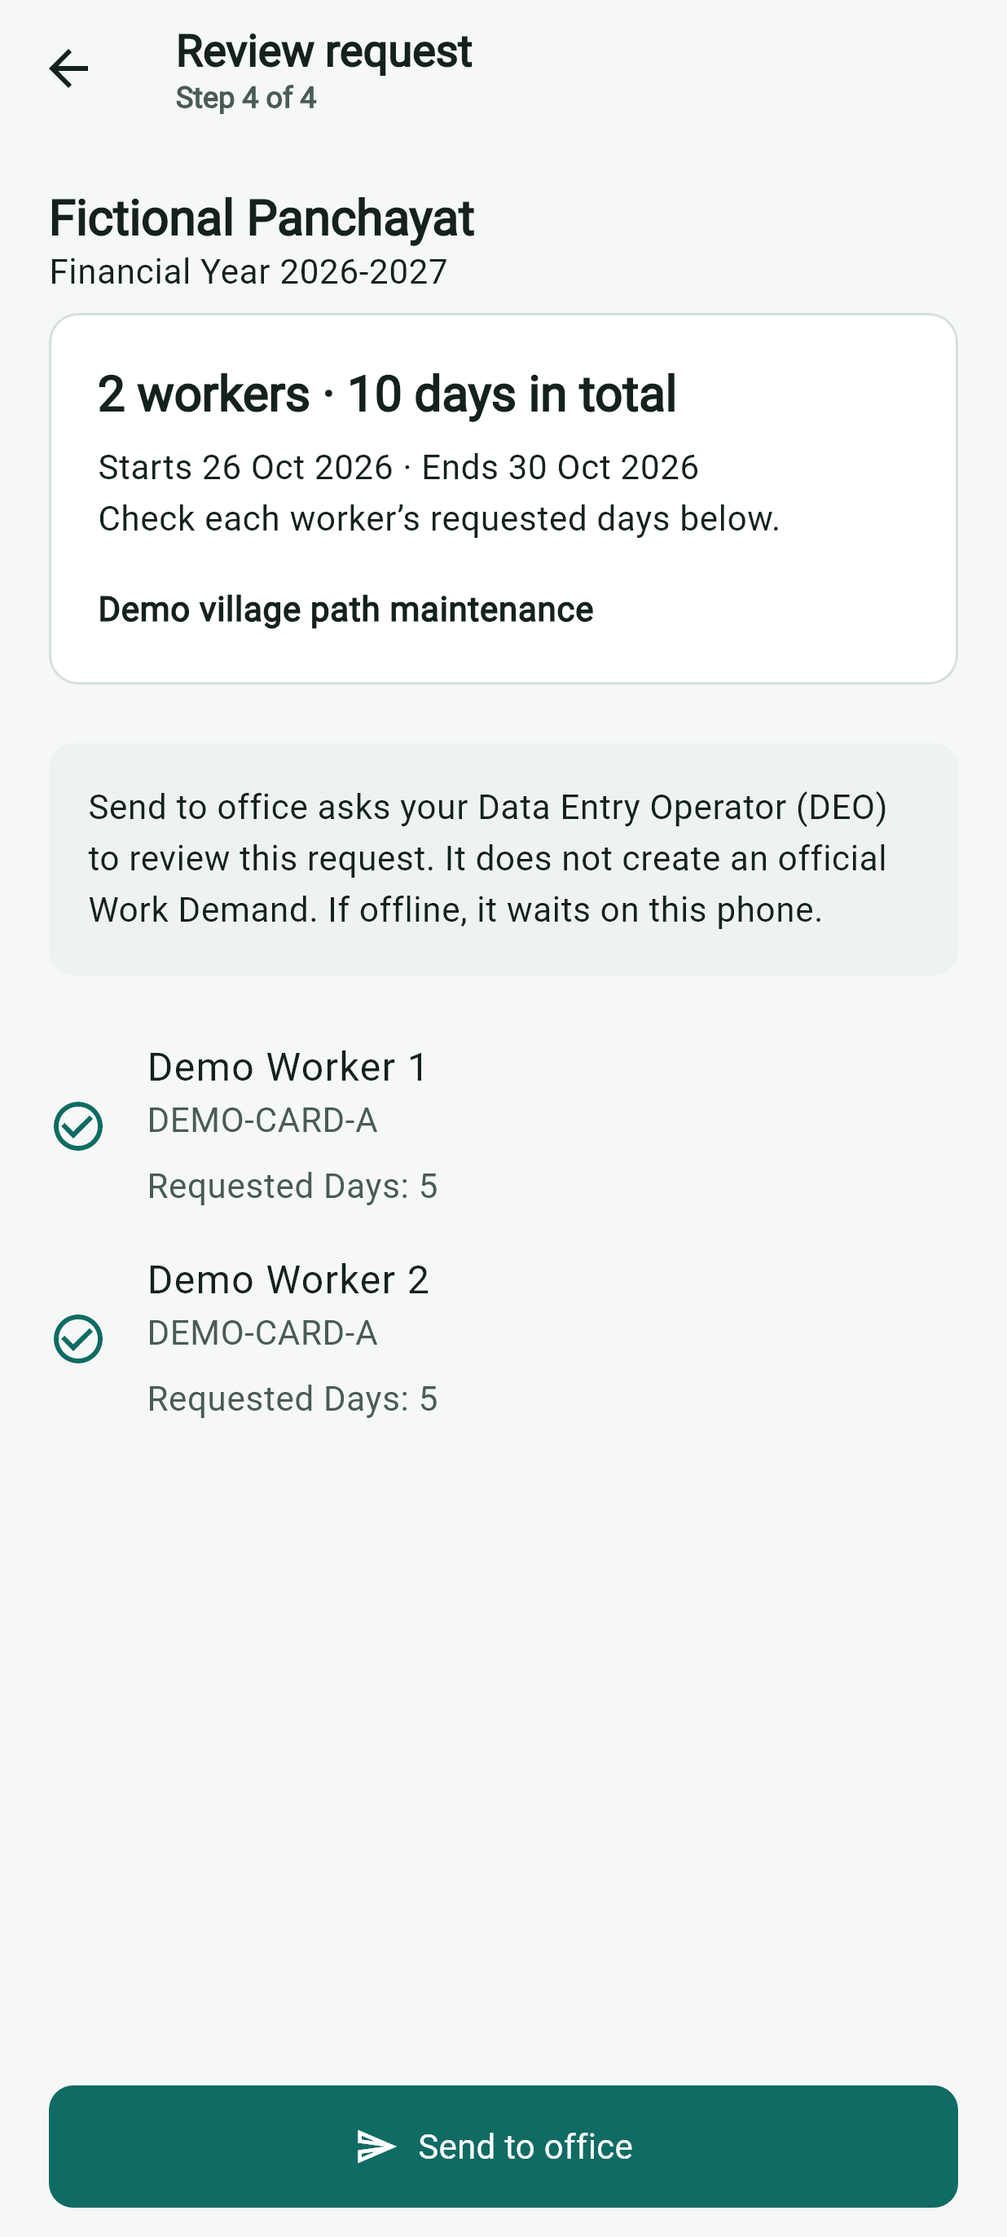
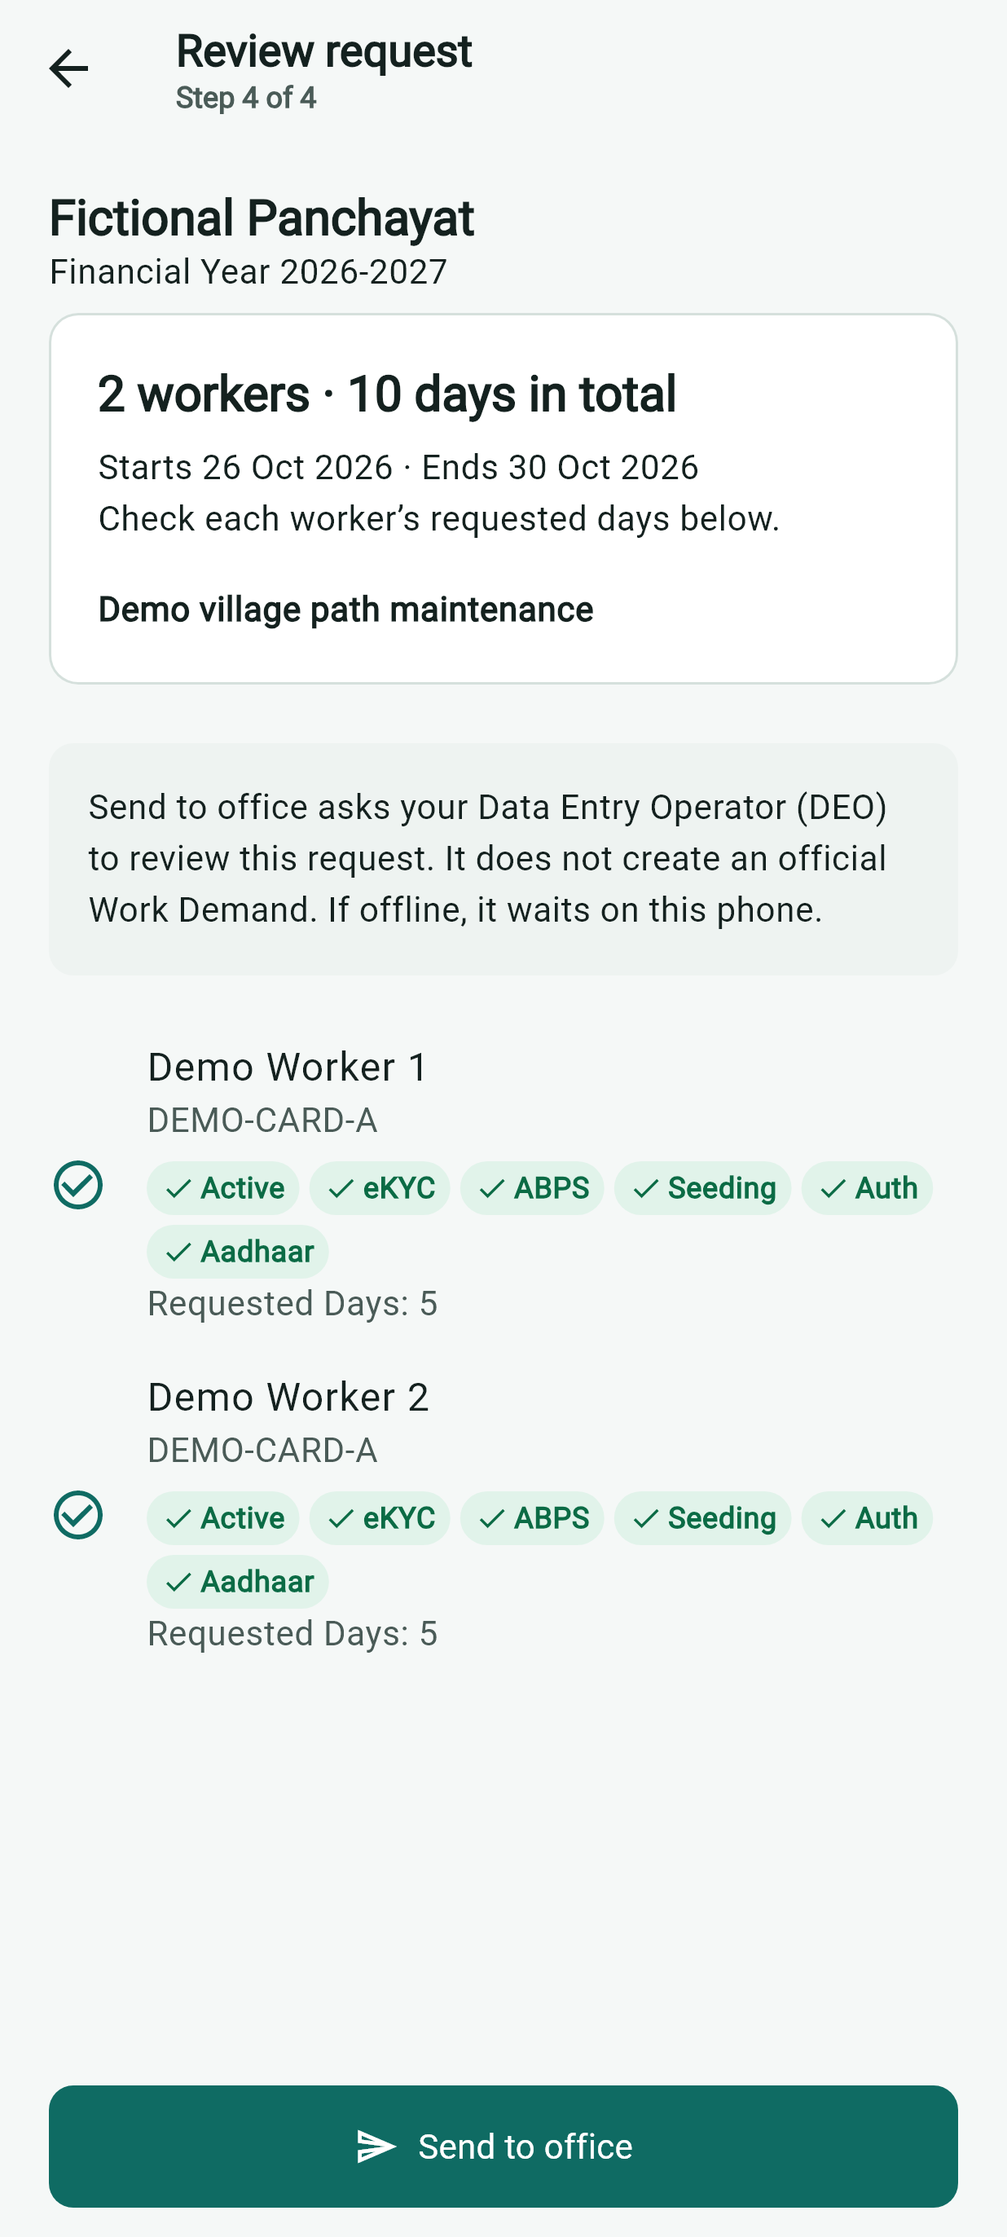
Refresh app showcase, 15 fictional previews and plain-English guides

diff --git a/README.md b/README.md
@@ -46,16 +46,16 @@ Progress reads family records together to avoid repeated lookups. Worker-check c
 
 ## Download
 
-Published downloads: desktop **1.4.47**, Android **1.4.32**.
+Published downloads: desktop **1.4.48**, Android **1.4.48**.
 
 | Device | Download |
 | --- | --- |
-| Windows 64-bit | [Download 1.4.47](https://github.com/Changtey/Worker-Demand-releases/releases/download/v1.4.47/VBGRAMG-DEO-Assistant-1.4.47-Setup.exe) |
-| Linux Debian / Ubuntu | [Download 1.4.47](https://github.com/Changtey/Worker-Demand-releases/releases/download/v1.4.47/VBGRAMG-DEO-Assistant-1.4.47-Linux-x64.deb) |
-| Linux AppImage | [Download 1.4.47](https://github.com/Changtey/Worker-Demand-releases/releases/download/v1.4.47/VBGRAMG-DEO-Assistant-1.4.47-Linux-x64.AppImage) |
-| Android APK | [Download 1.4.32](https://github.com/Changtey/Worker-Demand-releases/releases/download/v1.4.32/Worker-Demand-1.4.32.apk) |
+| Windows 64-bit | [Download 1.4.48](https://github.com/Changtey/Worker-Demand-releases/releases/download/v1.4.48/VBGRAMG-DEO-Assistant-1.4.48-Setup.exe) |
+| Linux Debian / Ubuntu | [Download 1.4.48](https://github.com/Changtey/Worker-Demand-releases/releases/download/v1.4.48/VBGRAMG-DEO-Assistant-1.4.48-Linux-x64.deb) |
+| Linux AppImage | [Download 1.4.48](https://github.com/Changtey/Worker-Demand-releases/releases/download/v1.4.48/VBGRAMG-DEO-Assistant-1.4.48-Linux-x64.AppImage) |
+| Android APK | [Download 1.4.48](https://github.com/Changtey/Worker-Demand-releases/releases/download/v1.4.48/Worker-Demand-1.4.48.apk) |
 
-[Release notes and checksums](https://github.com/Changtey/Worker-Demand-releases/releases/tag/v1.4.47).
+[Release notes and checksums](https://github.com/Changtey/Worker-Demand-releases/releases/tag/v1.4.48).
 
 Check the linked release notes for tested systems and remaining limits. Windows publisher signing is still pending for the current test release.
 
@@ -104,7 +104,7 @@ The app follows the portal's offered **State → District → Block → Panchaya
 
 ## See the app
 
-**Screens captured for desktop 1.4.47 and Android 1.4.32 · 2026-11-19.**
+**Screens captured for desktop 1.4.48 and Android 1.4.48 · 2026-11-19.**
 
 All 15 pictures use fictional records. **Android** pictures show the current Android screens at phone size. **Desktop preview** pictures show the current desktop app in a narrow window; they do not mean that desktop tools are available in Android. Open any picture for the full size. The pictures do not show a real office account or an official submission.
 
@@ -200,13 +200,12 @@ Work Demand charging was turned on after the app publication. Browser automation
 
 This online service update applies to the existing app downloads. The recharge package stays ₹50 for 50 Balance. No installation file was replaced. The earlier release notes describe the charging setting at the time they were written.
 
-**Published 1.4.47**
+**Published 1.4.48**
 
-- **Received requests show every worker.** A request from the Android app now always opens with all its workers shown. Before, a **Filters** choice made on one request came back on every later request. It could hide workers whose checks were not saved yet. Filters now work only while a request is open.
-- **Workers download while the usual Job Card list is broken.** VBGRAMG&#x27;s usual public Job Card list opens an error page. The app now reads workers from the official **Register No. 1 Part-A** on the same Panchayat page. A household is saved only when it matches the Registration Application Register exactly. Nothing…
-- **A Village read from Register No. 1 can finish.** When its workers, their four checks and days are saved, the Village counts as finished, so other areas can download. Days come from the signed-in Work Demand form. Household pages that could not open are tried again once a day.
-- **Downloads keep using the installed app&#x27;s own code.** A database check could load an older download helper and stop the area reader. This is fixed. No saved records or login details are cleared.
-- **Quicker retries for the selected area.** A missing place list no longer waits for its own area download. Choosing an area with an earlier failed download retries it within two minutes. When VBGRAMG shows an error page, the app says so and retries by itself.
-- **Slow at first, faster with use.** New users are told the app is slower in the first days while it reads their Panchayats and Villages. The Welcome tour, Getting started card, download bar and first Work Demand tip say this.
+- **Every worker check shows again on Android.** Each worker now has small labels for **Active**, **eKYC**, **ABPS**, **Seeding** (Aadhaar Seeding), **Auth** (Aadhaar Authentication) and **Aadhaar** (Aadhaar Availability). eKYC is the portal&#x27;s identity check. ABPS is the Aadhaar Based Payment System.
+- **Old answers no longer show as &quot;Unknown&quot;.** Before, the phone hid an answer once it was old: Active after 1 day, and eKYC after 30 days. Many workers then showed **Status unknown** or **eKYC unknown**. Now an old answer stays in grey with the date it was checked, for example **Active · 6 Nov**. It is the last…
+- **Worker details explain each answer.** Tap a worker&#x27;s information button to see each answer, where it came from and when it was checked.
+- **More Worker filters.** Filter by Active member, eKYC, ABPS, Aadhaar Seeding, Aadhaar Authentication or Aadhaar Availability. Filters use only current answers. The button shows how many filters are on, for example **Worker filters (1 on)**. If no worker matches, choose **Clear filters**.
+- **English and Hindi.** The new labels and messages are in both languages.
 
 See [latest changes and their release status](docs/LATEST_CHANGES.md). The public repository holds downloads and guides. App building files and office records stay on the owner's computer.

diff --git a/docs/USER_GUIDE.md b/docs/USER_GUIDE.md
@@ -2,7 +2,7 @@
 
 [Home](../README.md) · [Feature list](FEATURES.md) · [Latest changes](LATEST_CHANGES.md)
 
-**Screens captured for desktop 1.4.47 and Android 1.4.32 · 2026-11-19.**
+**Screens captured for desktop 1.4.48 and Android 1.4.48 · 2026-11-19.**
 
 Screenshots use fictional people and areas. Android and desktop are labelled separately. Your assigned areas and the portal's current lists determine what you can see.
 
@@ -90,16 +90,16 @@ The sidebar shows one line for each tool. Point at a tool to read a short explan
 
 Your selected Panchayat and Village stay in place while Received requests and background records are checked. Changing a Panchayat updates its Village choices. Use **Update lists** when you need to read an area list again. The earlier choices stay visible during that read and if it fails; choose **Try again** after a failure. Changing a parent area clears only the choices below it.
 
-Published downloads: desktop **1.4.47**, Android **1.4.32**.
+Published downloads: desktop **1.4.48**, Android **1.4.48**.
 
 | Device | Download |
 | --- | --- |
-| Windows 64-bit | [Download 1.4.47](https://github.com/Changtey/Worker-Demand-releases/releases/download/v1.4.47/VBGRAMG-DEO-Assistant-1.4.47-Setup.exe) |
-| Linux Debian / Ubuntu | [Download 1.4.47](https://github.com/Changtey/Worker-Demand-releases/releases/download/v1.4.47/VBGRAMG-DEO-Assistant-1.4.47-Linux-x64.deb) |
-| Linux AppImage | [Download 1.4.47](https://github.com/Changtey/Worker-Demand-releases/releases/download/v1.4.47/VBGRAMG-DEO-Assistant-1.4.47-Linux-x64.AppImage) |
-| Android APK | [Download 1.4.32](https://github.com/Changtey/Worker-Demand-releases/releases/download/v1.4.32/Worker-Demand-1.4.32.apk) |
+| Windows 64-bit | [Download 1.4.48](https://github.com/Changtey/Worker-Demand-releases/releases/download/v1.4.48/VBGRAMG-DEO-Assistant-1.4.48-Setup.exe) |
+| Linux Debian / Ubuntu | [Download 1.4.48](https://github.com/Changtey/Worker-Demand-releases/releases/download/v1.4.48/VBGRAMG-DEO-Assistant-1.4.48-Linux-x64.deb) |
+| Linux AppImage | [Download 1.4.48](https://github.com/Changtey/Worker-Demand-releases/releases/download/v1.4.48/VBGRAMG-DEO-Assistant-1.4.48-Linux-x64.AppImage) |
+| Android APK | [Download 1.4.48](https://github.com/Changtey/Worker-Demand-releases/releases/download/v1.4.48/Worker-Demand-1.4.48.apk) |
 
-[Release notes and checksums](https://github.com/Changtey/Worker-Demand-releases/releases/tag/v1.4.47).
+[Release notes and checksums](https://github.com/Changtey/Worker-Demand-releases/releases/tag/v1.4.48).
 
 ### Find the next task
 
@@ -260,10 +260,12 @@ Job Card members share the household's days left. A missing total means **Not kn
 
 ## 6. Make a work request on Android
 
+**Change in 1.4.48:** The Android worker list shows labels for Active, eKYC, ABPS, Aadhaar Seeding, Aadhaar Authentication and Aadhaar Availability again. An old answer no longer shows as unknown: it stays in grey with the date it was checked. Worker filters cover all six checks and show how many are on.
+
 The first time you sign in, a short **Welcome tour** (six screens) explains the worker list, choosing workers, checking them, **Send to office** and **History**. Use **Next** and **Back**. **Skip tour** or **Start using the app** closes it. To see it again, open **My account** and choose **Welcome tour**. It is in English and Hindi.
 
 1. On **Home**, check the line at the top (it says whether records are connected and when they were checked) and your assigned Panchayat or Village. If requests are waiting for the office or drafts are saved on the phone, a short list appears; tap a line to open **History**. A DEO can choose among their assigned areas.
-2. Choose **Create work request**. Search by worker or Job Card and choose the workers. **Select all** picks every worker shown now (after your search and filters), and **Deselect all** clears the choice. A worker who is active with eKYC complete shows no tag, and a line above the list says so. A worker who needs attention shows **Inactive**, **Status unknown**, **eKYC pending** or **eKYC unknown**. The same tags appear when entering days and reviewing the request. Open **Worker filters** and set **Active member** to **All** to include inactive workers. Missing or old answers show as unknown until checked again.
+2. Choose **Create work request**. Search by worker or Job Card and choose the workers. **Select all** picks every worker shown now (after your search and filters), and **Deselect all** clears the choice. Under each worker, small labels show **Active**, **eKYC**, **ABPS**, **Seeding** (Aadhaar Seeding), **Auth** (Aadhaar Authentication) and **Aadhaar** (Aadhaar Availability). A tick means Yes and a cross means No. A question mark means not checked yet. A grey label with a clock is an old answer with its check date, such as **Active · 6 Nov**; your office checks every worker again before entry. The same labels appear when entering days and reviewing the request. Open **Worker filters** to filter by any of these checks, and set **Active member** to **All** to include inactive workers.
 3. Choose **Check portal** to read the selected workers' public reports directly on the phone. Review eKYC and active status. Tap the information button beside a worker to open **Worker details** for days worked, family days left, Aadhaar availability, Aadhaar Based Payment System (ABPS), other offered checks, sources and check times. Choose **Stop portal check** if needed; your choices are kept.
 4. Set each selected worker's requested days, or enter days in **Days for all selected workers** and press **Apply Days to All** beside it to use those days for every selected worker.
 5. Continue to the work details. Enter the start date and the other requested details. Choose a saved work if needed.

diff --git a/docs/LATEST_CHANGES.md b/docs/LATEST_CHANGES.md
@@ -2,20 +2,20 @@
 
 [Home](../README.md) · [User guide](USER_GUIDE.md) · [Features](FEATURES.md)
 
-**Screens captured for desktop 1.4.47 and Android 1.4.32 · 2026-11-19.**
+**Screens captured for desktop 1.4.48 and Android 1.4.48 · 2026-11-19.**
 
 ## Published apps
 
-Published downloads: desktop **1.4.47**, Android **1.4.32**.
+Published downloads: desktop **1.4.48**, Android **1.4.48**.
 
 | Device | Download |
 | --- | --- |
-| Windows 64-bit | [Download 1.4.47](https://github.com/Changtey/Worker-Demand-releases/releases/download/v1.4.47/VBGRAMG-DEO-Assistant-1.4.47-Setup.exe) |
-| Linux Debian / Ubuntu | [Download 1.4.47](https://github.com/Changtey/Worker-Demand-releases/releases/download/v1.4.47/VBGRAMG-DEO-Assistant-1.4.47-Linux-x64.deb) |
-| Linux AppImage | [Download 1.4.47](https://github.com/Changtey/Worker-Demand-releases/releases/download/v1.4.47/VBGRAMG-DEO-Assistant-1.4.47-Linux-x64.AppImage) |
-| Android APK | [Download 1.4.32](https://github.com/Changtey/Worker-Demand-releases/releases/download/v1.4.32/Worker-Demand-1.4.32.apk) |
+| Windows 64-bit | [Download 1.4.48](https://github.com/Changtey/Worker-Demand-releases/releases/download/v1.4.48/VBGRAMG-DEO-Assistant-1.4.48-Setup.exe) |
+| Linux Debian / Ubuntu | [Download 1.4.48](https://github.com/Changtey/Worker-Demand-releases/releases/download/v1.4.48/VBGRAMG-DEO-Assistant-1.4.48-Linux-x64.deb) |
+| Linux AppImage | [Download 1.4.48](https://github.com/Changtey/Worker-Demand-releases/releases/download/v1.4.48/VBGRAMG-DEO-Assistant-1.4.48-Linux-x64.AppImage) |
+| Android APK | [Download 1.4.48](https://github.com/Changtey/Worker-Demand-releases/releases/download/v1.4.48/Worker-Demand-1.4.48.apk) |
 
-[Release notes and checksums](https://github.com/Changtey/Worker-Demand-releases/releases/tag/v1.4.47).
+[Release notes and checksums](https://github.com/Changtey/Worker-Demand-releases/releases/tag/v1.4.48).
 
 The linked release notes describe what was built, checked and published. A current source picture does not update an installed app or replace an installation file.
 
@@ -49,14 +49,13 @@ Work Demand charging was turned on after the app publication. Browser automation
 
 This online service update applies to the existing app downloads. The recharge package stays ₹50 for 50 Balance. No installation file was replaced. The earlier release notes describe the charging setting at the time they were written.
 
-**Published 1.4.47**
+**Published 1.4.48**
 
-- **Received requests show every worker.** A request from the Android app now always opens with all its workers shown. Before, a **Filters** choice made on one request came back on every later request. It could hide workers whose checks were not saved yet. Filters now work only while a request is open.
-- **Workers download while the usual Job Card list is broken.** VBGRAMG&#x27;s usual public Job Card list opens an error page. The app now reads workers from the official **Register No. 1 Part-A** on the same Panchayat page. A household is saved only when it matches the Registration Application Register exactly. Nothing…
-- **A Village read from Register No. 1 can finish.** When its workers, their four checks and days are saved, the Village counts as finished, so other areas can download. Days come from the signed-in Work Demand form. Household pages that could not open are tried again once a day.
-- **Downloads keep using the installed app&#x27;s own code.** A database check could load an older download helper and stop the area reader. This is fixed. No saved records or login details are cleared.
-- **Quicker retries for the selected area.** A missing place list no longer waits for its own area download. Choosing an area with an earlier failed download retries it within two minutes. When VBGRAMG shows an error page, the app says so and retries by itself.
-- **Slow at first, faster with use.** New users are told the app is slower in the first days while it reads their Panchayats and Villages. The Welcome tour, Getting started card, download bar and first Work Demand tip say this.
+- **Every worker check shows again on Android.** Each worker now has small labels for **Active**, **eKYC**, **ABPS**, **Seeding** (Aadhaar Seeding), **Auth** (Aadhaar Authentication) and **Aadhaar** (Aadhaar Availability). eKYC is the portal&#x27;s identity check. ABPS is the Aadhaar Based Payment System.
+- **Old answers no longer show as &quot;Unknown&quot;.** Before, the phone hid an answer once it was old: Active after 1 day, and eKYC after 30 days. Many workers then showed **Status unknown** or **eKYC unknown**. Now an old answer stays in grey with the date it was checked, for example **Active · 6 Nov**. It is the last…
+- **Worker details explain each answer.** Tap a worker&#x27;s information button to see each answer, where it came from and when it was checked.
+- **More Worker filters.** Filter by Active member, eKYC, ABPS, Aadhaar Seeding, Aadhaar Authentication or Aadhaar Availability. Filters use only current answers. The button shows how many filters are on, for example **Worker filters (1 on)**. If no worker matches, choose **Clear filters**.
+- **English and Hindi.** The new labels and messages are in both languages.
 
 These pictures were refreshed from the source used for this publication.
 

diff --git a/docs/FEATURES.md b/docs/FEATURES.md
@@ -2,7 +2,7 @@
 
 [Home](../README.md) · [User guide](USER_GUIDE.md) · [Latest changes](LATEST_CHANGES.md)
 
-**Screens captured for desktop 1.4.47 and Android 1.4.32 · 2026-11-19.**
+**Screens captured for desktop 1.4.48 and Android 1.4.48 · 2026-11-19.**
 
 - **Learn and practise:** [watch the nine-part tutorial](https://changtey.github.io/Worker-Demand-releases/learn/classroom.html), [try the guided practice app](https://changtey.github.io/Worker-Demand-releases/learn/practice.html) or [open full-size app pictures](https://changtey.github.io/Worker-Demand-releases/learn/screenshots.html). The practice copy uses sample records and ends at Check demand.
 
@@ -106,7 +106,7 @@ Desktop and Android use short labels, clear work steps and details that open whe
 
 The desktop Job Cards list shows **Eligible**, **Not eligible**, **Not yet checked** or **Data unavailable** for each saved worker. Every required check must pass before **Eligible** appears. Optional day figures do not add a new requirement. These labels describe saved records; **Check demand** still performs the checks needed for the current request.
 
-Android shows a small tag beside a worker only when something needs attention: **Inactive**, **Status unknown**, **eKYC pending** or **eKYC unknown**. A short line above the list says when every listed worker is active with eKYC complete. The same tags appear when entering days and reviewing a request. Set **Worker filters → Active member → All** to include inactive workers. Android can read public portal reports directly for selected assigned workers. Use **Check portal**, then the worker's information button for **Worker details**, including each answer's source and check time. It reads explicit eKYC, active or inactive status, offered identity and payment checks, complete worked days and confirmed family days left. Missing, incomplete or access-protected reports keep the saved copy with a clear message. Phone checks do not use Balance or submit official records.
+Android shows small labels under each worker for **Active**, **eKYC**, **ABPS**, **Seeding** (Aadhaar Seeding), **Auth** (Aadhaar Authentication) and **Aadhaar** (Aadhaar Availability). A tick on green means Yes. A cross on orange means No, and **Inactive** is red. A question mark on grey means the check has not been done yet. A clock on grey shows an old answer with the date it was checked, for example **Active · 6 Nov**; it is the last saved answer, and the office checks every worker again before entry. A worker marked Inactive shows only **Inactive**. The same labels appear when entering days and reviewing a request. **Worker filters** offers Active member, eKYC, ABPS, Aadhaar Seeding, Aadhaar Authentication and Aadhaar Availability; filters use only current answers. Set **Worker filters → Active member → All** to include inactive workers. Android can read public portal reports directly for selected assigned workers. Use **Check portal**, then the worker's information button for **Worker details**, including each answer's source and check time. It reads explicit eKYC, active or inactive status, offered identity and payment checks, complete worked days and confirmed family days left. Missing, incomplete or access-protected reports keep the saved copy with a clear message. Phone checks do not use Balance or submit official records.
 
 The app shows saved answers and whether they are current. Electronic identity verification (**eKYC**) and the Aadhaar Based Payment System (**ABPS**) are shown separately from Aadhaar availability. Statuses such as inactive, deleted, missing or old remain meaningful. Missing information is never counted as a confirmed answer.
 
